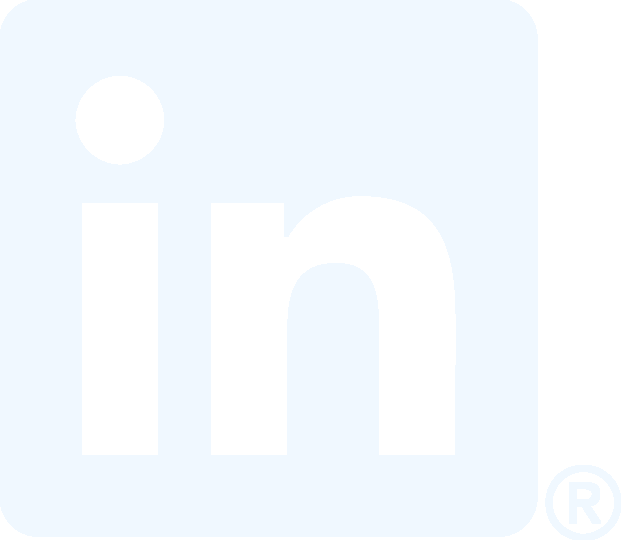
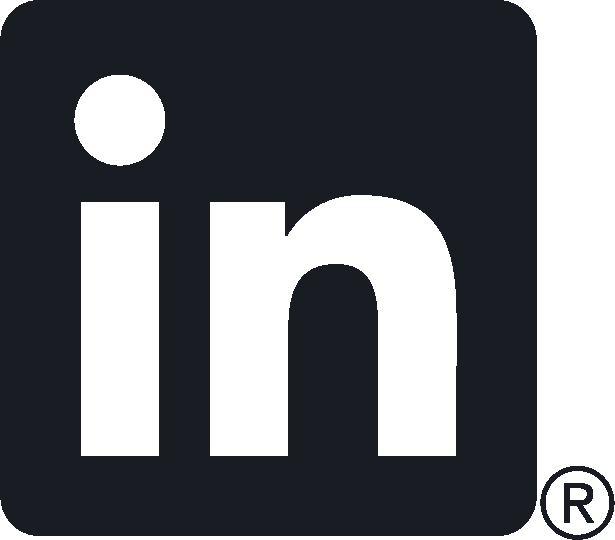
Website Overhaul
Modernized website layout
cleaned existing code

diff --git a/index.html b/index.html
@@ -3,53 +3,64 @@
 <head>
   <meta charset="UTF-8">
   <meta name="viewport" content="width=device-width, initial-scale=1.0">
-  <title>Kvnfrr | Portfolio</title>
+  <title>Kvnfrr | Home</title>
   <link href="https://stackpath.bootstrapcdn.com/bootstrap/4.5.2/css/bootstrap.min.css" rel="stylesheet">
-  <link href="https://fonts.googleapis.com/css2?family=IBM+Plex+Sans:wght@400;500;600;700&family=Lexend:wght@300;500;800&display=swap" rel="stylesheet">
+  <link rel="preconnect" href="https://fonts.googleapis.com">
+  <link rel="preconnect" href="https://fonts.gstatic.com" crossorigin>
+  <link href="https://fonts.googleapis.com/css2?family=Archivo+Black&family=Josefin+Sans:ital,wght@0,100..700;1,100..700&display=swap" rel="stylesheet">
   <link rel="stylesheet" href="style.css">
 </head>
 <body>
 
-  <nav class="navbar menu-style mt-4 ml-auto mr-auto">
-    <a class="navbar-brand ml-2" href="/">Kvnfrr</a>
-    <ul class="navbar-nav ml-auto d-flex flex-row mr-2">
-      <li class="nav-item mr-3">
-        <a class="nav-link" href="/projects.html">Projects</a>
-      </li>
-      <li class="nav-item">
-        <a class="nav-link" href="./assets/Resume2024.pdf" target="_blank" style="margin-right: 1.35rem;">Resume</a>
-      </li>
-      <li class="nav-item" id="Lin">
-        <a class="nav-link" href="https://www.linkedin.com/in/kevinferrercs/" target="_blank" id="Lin">
-          <img src="./assets/images/LI-In-Bug.png" alt="GitHub" style="height: 30px; margin-right: 1.3rem;">
-        </a>
-      </li>
-      <li class="nav-item">
-        <a class="nav-link" href="https://github.com/kvnfrr" target="_blank">
-          <img src="./assets/images/github-mark-white.png" alt="GitHub" style="height: 30px;">
-        </a>
-      </li>
-    </ul>
+  <nav class="navbar navbar-expand-lg">
+    <a class="navbar-brand" href="/">Kvnfrr</a>
+    <button class="navbar-toggler" type="button" data-toggle="collapse" data-target="#navbarNav" aria-controls="navbarNav" aria-expanded="false" aria-label="Toggle navigation">
+      <span class="navbar-toggler-icon"></span>
+    </button>
+    <div class="collapse navbar-collapse" id="navbarNav">
+      <ul class="navbar-nav ml-auto">
+        <li class="nav-item">
+          <a class="nav-link mr-3" href="/projects.html">Projects</a>
+        </li>
+        <li class="nav-item">
+          <a class="nav-link ml-2" href="./assets/Resume2024.pdf" target="_blank">Resume</a>
+        </li>
+      </ul>
+    </div>
   </nav>
-  
 
-<div id="main-box">
-  <header>
-    <div class="row align-items-center justify-content-center" id="cover-content">
-      <div class="col-md-5 text-overlay">
-        <h1 class="text-left mb-3" style="padding-top: 1rem;">Hello,</h1>
-        <h2 class="text-left mb-3">My name is Kevin</h2>
-        <p class="lead text-left">
-          I'm a Software Engineer with experience in Java, C, and HTML/CSS.
-        </p>
-        <p class="lead text-left">
-        </p>
-        <p class="lead text-left">
-        </p>
+  <div class="container">
+    <header>
+      <div class="row align-items-center justify-content-center">
+        <div class="text-overlay" id="main-box">
+          <h1 style="padding-top: 1rem;">Java/C++ Software Engineer</h1>
+          <h4>
+            Hey, I'm Kevin, a motivated Junior Software Engineer based in Florida.
+          </h4>
+          <div class="mt-3 d-flex align-items-center">
+            <a href="./assets/Resume2024.pdf" target="_blank" class="btn btn-primary mr-2 button">View Resume</a>
+            <a class="nav-link" href="https://www.linkedin.com/in/kevinferrercs/" target="_blank">
+              <img src="./assets/images/LI-In-Bug.png" alt="LinkedIn" class="brand-logo" id="Lin">
+            </a>
+            <a class="nav-link" href="https://github.com/kvnfrr" target="_blank">
+              <img src="./assets/images/github-mark-white.png" alt="GitHub" class="brand-logo">
+            </a>
+          </div>
+        </div>
+      </div>
+    </header>
+    </div>
+
+    <div class="container-fluid alig" id="about">
+      <div class="row">
+        <div class="col" >
+          <h2 class="headers row align-items-center justify-content-center">About me</h2>
+          <p class="body-p  headers row align-items-center justify-content-center">
+            I am currently an undergraduate pursuing a Bachelors of Science in CS at Florida International University.
+          </p>
+        </div>
       </div>
     </div>
-  </header>
-</div>
-
+    
 </body>
 </html>

diff --git a/style.css b/style.css
@@ -1,29 +1,23 @@
 body {
-  background-image: url(./assets/images/background.png);
-  background-repeat: repeat;
-  opacity: 100%;
-  background-attachment: fixed;
-  font-family: 'IBM Plex Sans', sans-serif;
-  height: 100vh;
-  margin: 0;
+  animation: animateBg 14s linear infinite;
+  background-image: linear-gradient(90deg,#159982,#273c98,#159982,#273c98);
+  background-size: 300% 100%;
+  overflow-x: hidden;
+}
+@keyframes animateBg {
+  0% { background-position: 0% 0%; }
+  100% { background-position: 100% 0%; }
 }
 
-.menu-style {
-  background-color: #08080A;
-  border-radius: 10rem;
-  border-style: solid;
-  border-color: #515151;
-}
 
 .navbar {
-  padding-top: 0.3rem;
-  padding-bottom: 0.3rem;
-  width: 35%;
+  width: 100%;
 }
 
 .navbar-brand {
-  font-size: 1.5rem;
-  font-weight: 500;
+  font-family: "Archivo Black", sans-serif;
+  font-size: 2rem;
+  font-weight: 400;
   color: aliceblue;
   position: relative;
 }
@@ -35,23 +29,26 @@ body {
 .navbar-brand::after {
   content: '';
   position: absolute;
-  bottom: 4px;
-  left: 0;
+  bottom: 1px;
+  left: 50%;
   width: 0;
   height: 2px;
   background-color: aliceblue;
-  transition: width 0.3s ease;
+  transition: width 0.6s ease, left 0.6s ease;
 }
 
 .navbar-brand:hover::after {
   width: 100%;
+  left: 0;
 }
 
 .nav-link {
+  font-family: "Josefin Sans", sans-serif;
+  font-weight: 500;
   position: relative;
   color: aliceblue;
   transition: color 0.3s ease, border-color 0.3s ease;
-  font-size: 1.1rem;
+  font-size: 1.3rem;
 }
 
 .nav-link:hover {
@@ -62,30 +59,74 @@ body {
   content: '';
   position: absolute;
   bottom: 2px;
-  left: 0;
+  left: 50%;
   width: 0;
   height: 2px;
   background-color: aliceblue;
-  transition: width 0.3s ease;
+  transition: width 0.3s ease, left 0.3s ease;
+}
+
+.brand-logo {
+  height: 30px;
 }
 
 .nav-link:hover::after {
-  width: 100%;
+  width: calc(100% - 20px);
+  left: 10px;
 }
 
-#Lin.nav-link.nav-link:hover::after {
-  width: 60%;
+.nav-link:last-child {
+  margin-left: -15px;
+}
+
+.button {
+  background-color: #20242D;
+  border-color: #20242D;
+}
+
+.button:hover {
+  background-color: #52585e;
+  border-color: #20242D;
 }
 
 #main-box {
-  margin-top: 10rem;
+  margin-top: 25%;
+}
 
+#about {
+  background-color: #20242D;
+  color: aliceblue;
+  width: 100%;
+  margin-top: 20%;
+  padding: 0;
+}
+
+#projects {
+  background-color: #20242D;
+  color: aliceblue;
+  margin-top: 5%;
+  width: 50%;
+}
+
+.headers {
+  font-family: "Josefin Sans", sans-serif;
+  font-weight: 500;
+  font-size: 40px;
+  padding-left: 5%;
+  padding-top: 30px;
+}
+
+.body-p {
+font-size: 20px;
+padding-left: 5%;
+}
+
+.language-logo {
+  width: 32px;
 }
 
 .text-overlay {
   color: transparent;
-  border-style: solid;
-  border-color: transparent;
   position: relative;
   animation: fade-in 1s forwards;
 }
@@ -99,7 +140,6 @@ body {
     opacity: 1;
     transform: translateY(0);
     color: aliceblue;
-    border-color: aliceblue;
   }
 }
 
@@ -112,18 +152,4 @@ body {
   height: 100%;
   border-radius: 15px;
   z-index: -1;
-}
-
-#cover-img {
-  width: 100%;
-  max-width: 100%;
-  height: auto;
-}
-
-body, html {
-  overflow: hidden;
-}
-
-.tbd {
-  color: aliceblue;
 }

diff --git a/projects.html b/projects.html
@@ -10,33 +10,31 @@
 </head>
 <body>
       
-      <nav class="navbar menu-style mt-4 ml-auto mr-auto">
-            <a class="navbar-brand ml-2" href="index.html">Kvnfrr</a>
-            <ul class="navbar-nav ml-auto d-flex flex-row mr-2">
-              <li class="nav-item mr-3">
-                <a class="nav-link" href="projects.html">Projects</a>
-              </li>
-              <li class="nav-item">
-                <a class="nav-link" href="./assets/Resume2024.pdf" target="_blank" style="margin-right: 1.35rem;">Resume</a>
-              </li>
-              <li class="nav-item" id="Lin">
-                <a class="nav-link" href="https://www.linkedin.com/in/kevinferrercs/" target="_blank" id="Lin">
-                  <img src="./assets/images/LI-In-Bug.png" alt="GitHub" style="height: 30px; margin-right: 1.3rem;">
-                </a>
-              </li>
-              <li class="nav-item">
-                <a class="nav-link" href="https://github.com/kvnfrr" target="_blank">
-                  <img src="./assets/images/github-mark-white.png" alt="GitHub" style="height: 30px;">
-                </a>
-              </li>
-            </ul>
-          </nav>
+  <nav class="navbar navbar-expand-lg">
+    <a class="navbar-brand" href="/">Kvnfrr</a>
+    <button class="navbar-toggler" type="button" data-toggle="collapse" data-target="#navbarNav" aria-controls="navbarNav" aria-expanded="false" aria-label="Toggle navigation">
+      <span class="navbar-toggler-icon"></span>
+    </button>
+    <div class="collapse navbar-collapse" id="navbarNav">
+      <ul class="navbar-nav ml-auto">
+        <li class="nav-item">
+          <a class="nav-link" href="/projects.html">Projects</a>
+        </li>
+        <li class="nav-item">
+          <a class="nav-link" href="./assets/Resume2024.pdf" target="_blank">Resume</a>
+        </li>
+      </ul>
+    </div>
+  </nav>
 
-          <div class="row align-items-center justify-content-center mt-5">
-            <div>
-              <h2 class="text-left mb-3 tbd">In the works</h2>
-            </div>
-          </div>
+  <div class="container-fluid alig" id="projects">
+    <div class="row">
+      <div class="col" >
+        <h2 class="headers row align-items-center justify-content-center">Projects</h2>
+      </div>
+    </div>
+  </div>
+
 
 </body>
 </html>
